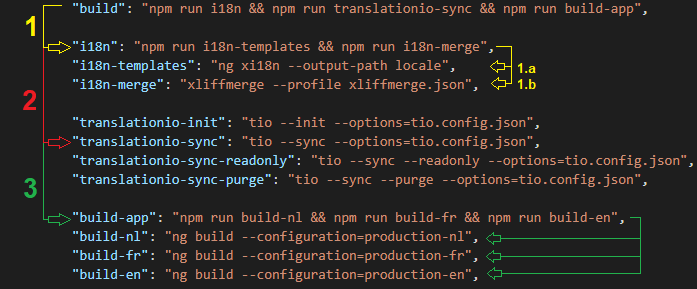
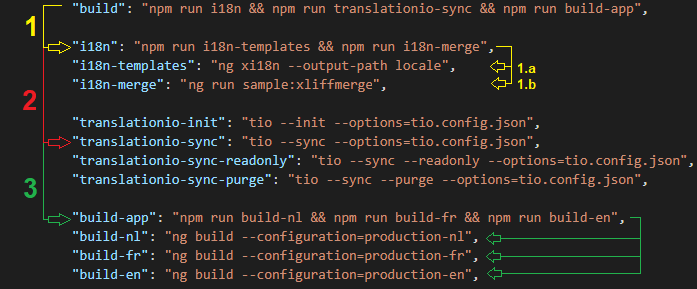
fix readme + examples

Changed region(s): [[0.2712, 0.2491, 0.693, 0.3114]]

diff --git a/README.md b/README.md
@@ -15,6 +15,7 @@ Si vous avez besoin de plus d'informations sur l'internationalisation, veuillez 
 
 ## Table of contents
 * [Avant de commencer](#avant-de-commencer)
+    * [Localize](#localize)
     * [Xliffmerge](#xliffmerge)
     * [Générer les fichiers XLIFF](#générer-les-fichiers-XLIFF)
 * [Type de traduction](#type-de-traduction)
@@ -32,29 +33,45 @@ Si vous avez besoin de plus d'informations sur l'internationalisation, veuillez 
 
 ## Avant de commencer
 
+### Localize
+Afin de bénéficier de toutes les fonctionnalités liées à l'internationalisation fourni par Angular, n'oubliez pas d'ajouter le package [localize](https://angular.io/guide/i18n#add-the-localize-package) à votre solution :
+```bash
+ng add @angular/localize
+```
+
 ### Xliffmerge
 Il est nécessaire d'utiliser le package [xliffmerge](https://www.npmjs.com/package/@ngx-i18nsupport/ngx-i18nsupport) afin de générer correctement et facilement les différents fichiers de traductions nécessaires au bon fonctionnement de ce package.
 
 Package **xliffmerge** : https://www.npmjs.com/package/@ngx-i18nsupport/ngx-i18nsupport
 
+Si vous desirez des explications détaillées sur l'installation du package, veuillez consulter son [wiki](https://github.com/martinroob/ngx-i18nsupport/wiki/Tutorial-for-using-xliffmerge-with-angular-cli).
+
 ##### Why ?
 Pour éviter de faire cette partie de la documentation officielle à la main :
 - https://angular.io/guide/i18n#create-the-translation-files
 
-Once the package is installed, you'll have to create a configuration file in the root folder of your Angular app <br />
-Voici les options à configurer pour le package xliffmerge :
+Once the package is installed, you'll have to add some configuration file in the "angular.json" file <br />
 
-Fichier : 'xliffmerge.json'
-```js
+![Exemple-xliffmerge](images/exemple-xliffmerge.png)
+
+Voici les options obligatoires à configurer pour le package xliffmerge :
+Fichier : 'angular.json'
+```json
 {
-  "xliffmergeOptions": {
-    "srcDir": "src/locale",
-    "genDir": "src/locale",
-    "useSourceAsTarget": true,
-    "defaultLanguage": "fr",
-    "beautifyOutput": true,
-    "languages": ["fr", "en", "nl"],
-    "i18nFile": "messages.xlf",
+  "xliffmerge": {
+    "builder": "@ngx-i18nsupport/tooling:xliffmerge",
+    "options": {
+      "xliffmergeOptions": {
+        "i18nFormat": "xlf",
+        "srcDir": "src/locale",
+        "genDir": "src/locale",
+        "i18nFile": "messages.xlf",
+        "defaultLanguage": "fr",
+        "languages": ["fr", "nl", "en"],
+        "useSourceAsTarget": true,
+        "beautifyOutput": true
+      }
+    }
   }
 }
 ```
@@ -76,14 +93,14 @@ Afin de générer ces fichiers, il y a deux étapes :
 Pour ce faire, il suffit d'ajouter ces commandes dans le package.json de votre Angular application
 ```json
     "i18n-templates": "ng xi18n --output-path src/locale",
-    "i18n-merge": "xliffmerge --profile xliffmerge.json",
+    "i18n-merge": "ng run sample:xliffmerge",
 ```
 - `i18n-templates` : Cette commande permet de générer le fichier de traduction en fonction des balises i18n présentes dans votre site
-- `i18n-merge` : Grâce au fichier précedemment créé par "i18n-template", cette commande permet de générer, pour chaque langues, le bon fichier de traduction
+- `i18n-merge` : Grâce au fichier précedemment créé par "i18n-template", cette commande permet de générer, pour chaque langues, le bon fichier de traduction. <br /> 'sample' = name of your angular project configured in the "angular.json" file.
 
 et de les exécuter, dans cet ordre, grâce à une commande commune :
 ```json
-    "i18n-exec": "npm run i18n-templates && npm run i18n-merge",
+    "i18n": "npm run i18n-templates && npm run i18n-merge",
 ```
 
 <br />
@@ -104,6 +121,9 @@ c'est que vous dirigez vers l'approche de type "KEY".
 ```html
     <div i18n="@@TIO_MYAPP_HelloKey">Hello key</div>
 ```
+```js
+    $localize`:@@TIO_MYAPP_HelloKeyJS: Hello key from JS`
+```
 >Attention : Si vous ne commencez pas vos [id personnalisés](https://angular.io/guide/i18n#set-a-custom-id-for-persistence-and-maintenance) 
 par l'*[i18n_key](#configuration)*, vos traductions seront traitées comme étant des traductions de type **"SOURCE"** et non de type **"KEY"**.
 
@@ -115,6 +135,9 @@ par l'*[i18n_key](#configuration)*, vos traductions seront traitées comme étan
 - Exemple
 ```html
     <div i18n>Hello source</div>
+```
+```js
+    $localize `Hello source from JS`
 ```
 
 <br />
@@ -135,9 +158,9 @@ Go to your Translation.io account page and create a new project.
 Once the project is created, you'll have to create a configuration file in the root folder of your Angular app
 
 Fichier : 'tio.config.json'
-```js
+```json
 {
-    "api_key": "aaaaaaaaaaaaaaaaaaaaaaaaaaaaaaaa",
+    "api_key": "YOUR API KEY",
     "i18n_key": "TIO",
     "source_language": {
         "language": "fr-BE",
@@ -175,7 +198,7 @@ Fichier : 'tio.config.json'
 Il est possible de définir un proxy, pour cela, rien de plus simple :
 
 Fichier : 'tio.config.json'
-```js
+```json
 {
     "api_key": "aaaaaaaaaaaaaaaaaaaaaaaaaaaaaaab",
     "i18n_key": "TIO",
